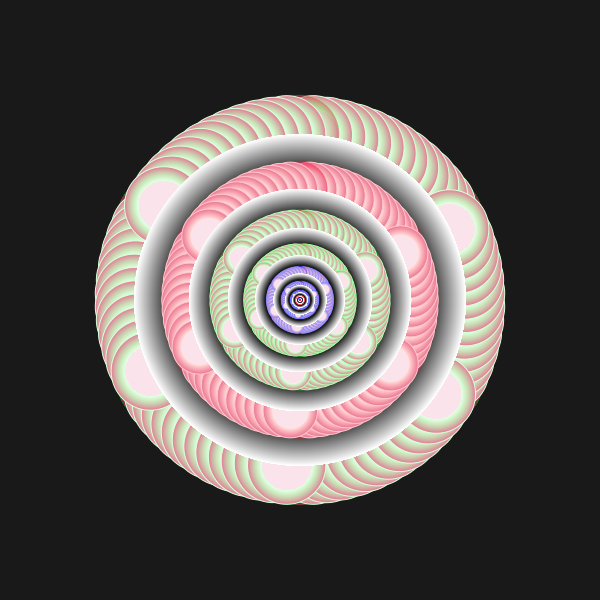
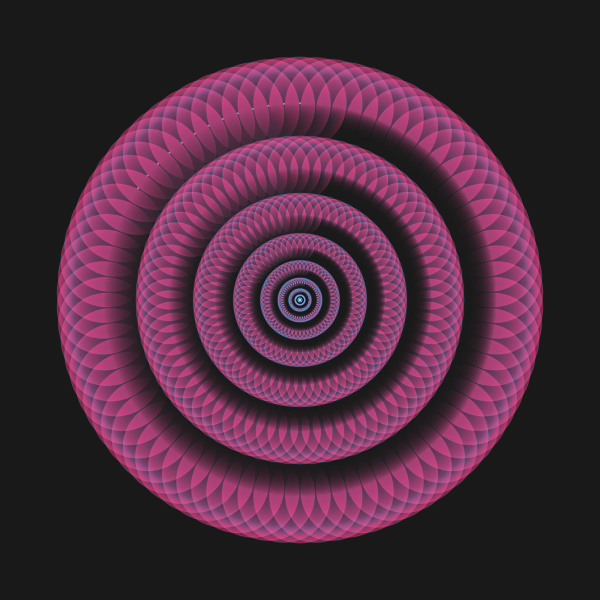
Color begin to look as should

diff --git a/chrysanthemum.py b/chrysanthemum.py
@@ -1,5 +1,6 @@
 # #!/usr/bin/env python3
 import os
+import sys
 import time
 import math
 import colorsys
@@ -19,7 +20,7 @@ cx = w / 2
 cy = h / 2
 
 # Flower vars
-radius = -1 * h * 0.5 * 0.80; # Radius 80% of canvas
+radius = -1 * h * 0.5 * 0.95; # Radius 80% of canvas
 deep = 14
 final_angle = 1.0471975511965976 # Math.PI / 3, # 60º
 final_angle_factor = 1
@@ -36,10 +37,8 @@ t0 = 0
 tb = 0
 t_factor = 0
 # colors
-palette = [
-    [ 30,  81, 52 ],
-    [ 220, 77, 48 ]
-]
+# palette = [ [ 30,  81, 52 ], [ 220, 77, 48 ] ]
+palette = [ [ 0.0833,  0.81, 0.52 ], [ 0.6111, 0.77, 0.48 ] ]
 
 # Create surface
 ims = cairo.ImageSurface(cairo.FORMAT_ARGB32, w, h)
@@ -51,7 +50,7 @@ ctx.set_source_rgb(0.1, 0.1, 0.1)
 ctx.fill ()
 
 # Move 0,0 to center of canvas
-ctx.translate( cx, cy);
+ctx.translate( cx, cy )
 
 # Calculate circles
 last = 0
@@ -86,19 +85,19 @@ for i in range(deep):
 
 #print('Total circles:'+circles)
 
+ims.write_to_png("test.png")
+# sys.exit()
+
 # Current time
 t0 = int(time.time())
 
-ctx.set_source_rgba(0.9, 0.9, 0.9, 0.5)
-draw.plot( ctx, 0, 0, 1)
-
 # Draw circles
 for i in range( len(circles) -1, 0, -1 ):
-    tn = int(time.time())
 
     line_alpha = 1 - (i / deep)
 
     col = utilz.hslLerp(palette[0], palette[1], math.fabs(circles_distance_to_center[i] / radius))
+    print(col)
 
     # Draw 6 times
     for k in range(6):
@@ -109,14 +108,7 @@ for i in range( len(circles) -1, 0, -1 ):
         # Draws all circles in current level
         for j in range(len(circles[i])):
 
-            grd = cairo.RadialGradient(
-            circles[i][j][0],
-            circles[i][j][1],
-            circles_radius[i-1]*0.64,
-            circles[i][j][0],
-            circles[i][j][1],
-            circles_radius[i-1]
-            )
+            grd = cairo.RadialGradient( circles[i][j][0], circles[i][j][1], circles_radius[i-1]*0.64, circles[i][j][0], circles[i][j][1], circles_radius[i-1] )
 
             grd.add_color_stop_rgba(0, 0.85, 0.108, 0.333, 0.12)
             grd.add_color_stop_rgba(1, 0.85, 0.108, 0.333, 0.60)
@@ -130,20 +122,13 @@ for i in range( len(circles) -1, 0, -1 ):
             ctx.set_source_rgba( *rgb, line_alpha )
             draw.circle( ctx, circles[i][j][0], circles[i][j][1], circles_radius[i-1] );
 
-            # Cover central part of current level of circles
-            if ( i > 1 ):
-                grd_tapa = cairo.RadialGradient(
-                    0,
-                    0,
-                    math.fabs( circles[i][0][1] )*0.78,
-                    0,
-                    0,
-                    math.fabs( circles[i][0][1] )
-                )
-                grd_tapa.add_color_stop_rgba(0, 0.1, 0.1, 0.1, 1.0)
-                grd_tapa.add_color_stop_rgba(1, 0.1, 0.1, 0.1, 0.0)
-                ctx.set_source(grd_tapa)
-                ctx.set_operator(cairo.OPERATOR_SOURCE)
-                draw.plot(ctx, 0, 0, math.fabs( circles[i][0][1] ))
+        # Cover central part of current level of circles
+        if ( i > 1 ):
+            grd_tapa = cairo.RadialGradient( 0, 0, math.fabs( circles[i][0][1] )*0.78, 0, 0, math.fabs( circles[i][0][1] ) )
+            grd_tapa.add_color_stop_rgba(0.0, 0.1, 0.1, 0.1, 1.0)
+            grd_tapa.add_color_stop_rgba(1.1, 0.1, 0.1, 0.1, 0.0)
+            ctx.set_source(grd_tapa)
+            ctx.set_operator(cairo.OPERATOR_OVER)
+            draw.plot(ctx, 0, 0, math.fabs( circles[i][0][1] ))
 
 ims.write_to_png("test.png")

diff --git a/mod/utilz.py b/mod/utilz.py
@@ -42,7 +42,18 @@ def hslLerp(hsl1, hsl2, percent):
     l2 = hsl2[2]
     result = []
 
-    result.append( angleLerp(h1, h2, percent) )
+    diff = math.fabs(h2 - h1)
+    if (diff > 0.5):
+        if (h2 > h1):
+            h1 += 0.5
+        else:
+            h2 += 0.5
+    # Interpolacion
+    h_final = (h1 + ((h2 - h1) * percent))
+    if (h_final < 0) or (h_final > 1.0):
+        h_final = h_final % 1.0
+
+    result.append( h_final )
     result.append( lerp(s1, s2, percent) )
     result.append( lerp(l1, l2, percent) )
 
